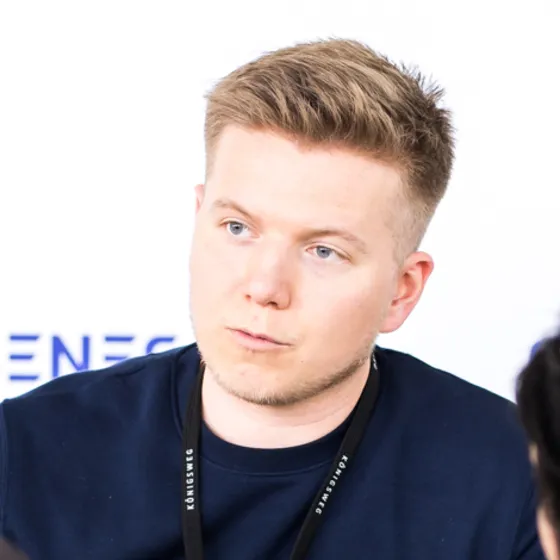
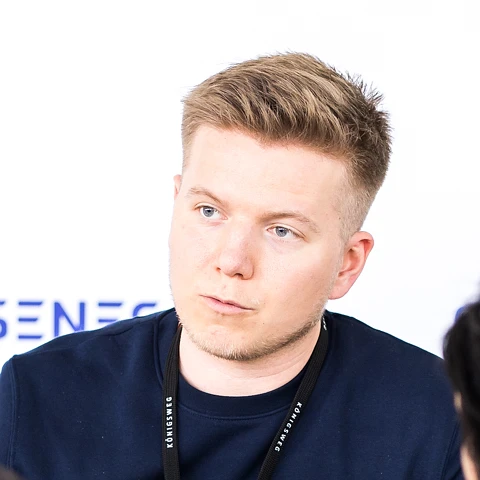
feature: adjust portrait, adjust color glow on hopepage, add more liquid glass panels, clean up get-in-touch page

diff --git a/src/pages/About.tsx b/src/pages/About.tsx
@@ -5,9 +5,6 @@ import ExternalLink from "../components/ExternalLink";
 import {
   GithubIcon,
   LinkedInIcon,
-  MailIcon,
-  PhoneIcon,
-  PinIcon,
   StackOverflowIcon,
 } from "../components/Icons";
 import { reveal } from "../components/reveal";
@@ -73,55 +70,27 @@ const Contact = styled(LiquidPanel)`
   }
 `;
 
-const ContactList = styled.ul`
-  list-style: none;
+// Plain label/value rows separated by hairlines.
+const ContactList = styled.dl`
   margin: 0 0 24px;
-  padding: 0;
-  display: grid;
-  gap: 14px;
 
-  li {
-    display: grid;
-    grid-template-columns: 42px minmax(0, 1fr);
-    align-items: center;
-    gap: 14px;
+  div {
+    padding: 12px 0;
+    border-top: 1px solid rgba(255, 255, 255, 0.08);
   }
-  small {
-    display: block;
+  div:last-child {
+    border-bottom: 1px solid rgba(255, 255, 255, 0.08);
+  }
+  dt {
     font-family: ${fonts.mono};
     font-size: 0.7rem;
     letter-spacing: 0.05em;
     text-transform: uppercase;
     color: ${colors.muted};
   }
-  span,
-  a {
+  dd {
+    margin: 2px 0 0;
     overflow-wrap: anywhere;
-  }
-`;
-
-// Round glass chip holding a contact icon.
-const IconChip = styled.span`
-  display: grid;
-  place-items: center;
-  width: 42px;
-  height: 42px;
-  border-radius: 50%;
-  color: ${colors.sun};
-  background:
-    radial-gradient(
-      circle at 30% 25%,
-      rgba(255, 255, 255, 0.18),
-      transparent 60%
-    ),
-    rgba(255, 255, 255, 0.05);
-  box-shadow:
-    inset 0 1px 0 rgba(255, 255, 255, 0.2),
-    inset 0 0 0 1px rgba(255, 255, 255, 0.08);
-
-  svg {
-    width: 20px;
-    height: 20px;
   }
 `;
 
@@ -185,33 +154,22 @@ function About() {
                 <Muted>For project inquiries, feel free to reach out.</Muted>
               </p>
               <ContactList>
-                <li>
-                  <IconChip>
-                    <MailIcon />
-                  </IconChip>
-                  <div>
-                    <small>Email</small>
+                <div>
+                  <dt>Email</dt>
+                  <dd>
                     <a href={`mailto:${profile.email}`}>{profile.email}</a>
-                  </div>
-                </li>
-                <li>
-                  <IconChip>
-                    <PhoneIcon />
-                  </IconChip>
-                  <div>
-                    <small>Phone</small>
+                  </dd>
+                </div>
+                <div>
+                  <dt>Phone</dt>
+                  <dd>
                     <a href={`tel:${tel}`}>{profile.phone}</a>
-                  </div>
-                </li>
-                <li>
-                  <IconChip>
-                    <PinIcon />
-                  </IconChip>
-                  <div>
-                    <small>Location</small>
-                    <span>{profile.location}</span>
-                  </div>
-                </li>
+                  </dd>
+                </div>
+                <div>
+                  <dt>Location</dt>
+                  <dd>{profile.location}</dd>
+                </div>
               </ContactList>
               <Actions>
                 {socials.map(({ label, href, icon }) => {

diff --git a/src/pages/home/Hero.tsx b/src/pages/home/Hero.tsx
@@ -5,7 +5,7 @@ import lavaSmall from "../../assets/photos/lava-field-800.webp";
 import portrait from "../../assets/photos/portrait.webp";
 import { reveal } from "../../components/reveal";
 import Section from "../../components/Section";
-import { Dot, Eyebrow, PillLink } from "../../components/ui";
+import { Dot, Eyebrow, LiquidPanel, PillLink } from "../../components/ui";
 import { highlights, profile } from "../../content";
 import { breakpoints, colors, fonts, glass, hoverLift } from "../../theme";
 
@@ -55,8 +55,11 @@ const PortraitFrame = styled.div`
   }
 `;
 
-const Text = styled.div`
-  max-width: 640px;
+// The introduction sits on a liquid-glass panel, which lifts it off the
+// lava photo and ties the cover to the glass used across the site.
+const Text = styled(LiquidPanel)`
+  max-width: 660px;
+  padding: clamp(24px, 3.2vw, 40px);
 
   h1 {
     font-size: clamp(2.6rem, 6vw, 4rem);
@@ -142,28 +145,25 @@ function Hero() {
       ?.scrollIntoView({ behavior: "smooth" });
 
   return (
-    <Section
-      curves={1}
-      photo={{ large: lavaLarge, small: lavaSmall }}
-      aurora="ember"
-    >
+    <Section curves={1} photo={{ large: lavaLarge, small: lavaSmall }}>
       {(visible) => (
         <>
           <Intro className={visible ? "flex-faded-in" : "flex-faded-out"}>
             <PortraitFrame style={reveal(visible, 2, "scale(0.96)")}>
               <img src={portrait} alt={`Portrait of ${profile.name}`} />
             </PortraitFrame>
-            <Text>
-              <Eyebrow style={reveal(visible, 0)}>{profile.headline}</Eyebrow>
-              <h1 style={reveal(visible, 0)}>
+            {/* The panel reveals as one piece; its contents don't fade on
+                their own (a fading ancestor would switch off the pills'
+                glass blur). */}
+            <Text style={reveal(visible, 0)}>
+              <Eyebrow>{profile.headline}</Eyebrow>
+              <h1>
                 Welcome<Dot>.</Dot>
               </h1>
-              {profile.welcome.map((paragraph, i) => (
-                <p key={paragraph.slice(0, 24)} style={reveal(visible, 1 + i)}>
-                  {paragraph}
-                </p>
+              {profile.welcome.map((paragraph) => (
+                <p key={paragraph.slice(0, 24)}>{paragraph}</p>
               ))}
-              <Actions style={reveal(visible, 3)}>
+              <Actions>
                 <PillLink as="button" $primary onClick={scrollToExperience}>
                   My experience ↓
                 </PillLink>

diff --git a/src/components/Icons.tsx b/src/components/Icons.tsx
@@ -1,7 +1,5 @@
 // Small inline SVG icons. They inherit `currentColor` so hover styles work.
 
-import type { ReactNode } from "react";
-
 function Icon({ d, title }: { d: string; title: string }) {
   return (
     <svg
@@ -60,43 +58,3 @@ export function SectionDivider({ color }: { color: string }) {
     </svg>
   );
 }
-
-// Outline icons for the contact card (24px grid, stroked in currentColor).
-function LineIcon({ children }: { children: ReactNode }) {
-  return (
-    <svg
-      xmlns="http://www.w3.org/2000/svg"
-      viewBox="0 0 24 24"
-      width="100%"
-      height="100%"
-      fill="none"
-      stroke="currentColor"
-      strokeWidth="1.6"
-      strokeLinecap="round"
-      strokeLinejoin="round"
-      aria-hidden="true"
-    >
-      {children}
-    </svg>
-  );
-}
-
-export const MailIcon = () => (
-  <LineIcon>
-    <rect x="3" y="5" width="18" height="14" rx="2.5" />
-    <path d="m4 7 8 6 8-6" />
-  </LineIcon>
-);
-
-export const PhoneIcon = () => (
-  <LineIcon>
-    <path d="M6.6 3.5h2.6l1.4 4.1-2 1.4a12 12 0 0 0 6.4 6.4l1.4-2 4.1 1.4v2.6a2 2 0 0 1-2.2 2A17 17 0 0 1 4.6 5.7a2 2 0 0 1 2-2.2Z" />
-  </LineIcon>
-);
-
-export const PinIcon = () => (
-  <LineIcon>
-    <path d="M12 21s-7-6.2-7-11.5a7 7 0 0 1 14 0C19 14.8 12 21 12 21Z" />
-    <circle cx="12" cy="9.5" r="2.5" />
-  </LineIcon>
-);

diff --git a/src/components/Aurora.tsx b/src/components/Aurora.tsx
@@ -7,7 +7,7 @@ import { aurora as a } from "../theme";
 // animated, which stays cheap on the GPU; reduced-motion users get a
 // still image (see index.css).
 
-export type AuroraVariant = "dusk" | "tide" | "ember";
+export type AuroraVariant = "dusk" | "tide";
 
 // Each variant is two layers of radial gradients that drift in opposite
 // directions, so the colours slowly shift against each other.
@@ -28,12 +28,6 @@ const VARIANTS: Record<AuroraVariant, [string, string]> = {
      radial-gradient(34% 40% at 84% 22%, ${a.lavender}73, transparent 70%)`,
     `radial-gradient(26% 30% at 62% 92%, ${a.rose}4d, transparent 70%),
      radial-gradient(22% 26% at 30% 14%, ${a.peach}40, transparent 70%)`,
-  ],
-  // A low warm glow for photo-backed sections.
-  ember: [
-    `radial-gradient(34% 40% at 14% 96%, ${a.peach}4d, transparent 70%),
-     radial-gradient(28% 34% at 40% 104%, ${a.rose}40, transparent 70%)`,
-    `radial-gradient(26% 30% at 92% 12%, ${a.lavender}2e, transparent 70%)`,
   ],
 };
 

diff --git a/.github/agents/steinnhm-website.agent.md b/.github/agents/steinnhm-website.agent.md
@@ -84,12 +84,12 @@ Stack Overflow) and a footer with contact links.
 | `src/pages/Experience.tsx`                | One template for every experience page.                                                                                                               |
 | `src/pages/About.tsx`                     | About page.                                                                                                                                           |
 | `src/components/Section.tsx`              | Full-height section: background curves, optional photo backdrop (`{ large, small }`), aurora, tint, slanted divider. Children are `(visible) => ...`. |
-| `src/components/Aurora.tsx`               | Drifting colour glows behind the glass: `dusk` (About), `tide` (Skills, Volunteering, experience pages), `ember` (hero).                              |
+| `src/components/Aurora.tsx`               | Drifting colour glows behind the glass: `dusk` (About), `tide` (Skills, Volunteering, experience pages). None on the hero.                            |
 | `src/components/reveal.ts`                | `reveal(visible, index, offset)`: per-element scroll-reveal styles.                                                                                   |
 | `src/components/ui.tsx`                   | Styled primitives: `GlassCard`, `LiquidPanel`, `SectionTitle`, `SectionLabel`, `Dot`, `Eyebrow`, `Muted`, `Tag`/`TagList`, `PillLink`, `TwoColumn`.   |
 | `src/components/ExternalLink.tsx`         | Use for every link to another site (new tab, `rel="noopener noreferrer"`).                                                                            |
 | `src/components/Layout.tsx`, `TopNav.tsx` | Page shell (nav, footer, grain overlay, scroll-to-top) and the top navigation.                                                                        |
-| `src/components/Curves.tsx`, `Icons.tsx`  | The eight background curve variants; social and contact icons and the section divider.                                                                |
+| `src/components/Curves.tsx`, `Icons.tsx`  | The eight background curve variants; social icons and the section divider.                                                                            |
 | `src/hooks/useElementOnScreen.ts`         | IntersectionObserver hook that drives all scroll animation.                                                                                           |
 | `src/assets/photos/`, `src/assets/logos/` | WebP portrait, landscape backdrops (large + 800px variants) and company logos. Raw originals are git-ignored.                                         |
 | `src/*.test.ts(x)`, `src/test/`           | `content.test.ts` (data integrity), `cv.test.ts` (site matches CV), `assets.test.ts` (image budget), `App.test.tsx` (pages and routing).              |
@@ -120,7 +120,8 @@ owner:
   dark mode: soft peach, rose, lavender and blue glows (`aurora` in
   `theme.ts`) that drift slowly behind the glass, so the panels pick up
   colour. `dusk` on About is the strongest and is the showpiece; keep the
-  others subtler.
+  others subtler. The home hero has **no** aurora (owner's call: it looked
+  out of place on the cover); the lava photo carries it.
 - **Motion:** every title, card and tile reveals itself with `reveal()` (a
   short fade and a longer staggered slide). Flex gaps "breathe" and list
   items slide in. Everything replays on scrolling back, and
@@ -129,8 +130,10 @@ owner:
   and key figures: strong blur and saturation, a soft sheen, and a specular
   rim (`::before`) that is bright at the top-left and picks up blue and gold
   at the bottom-right. `LiquidPanel` is the richest variant (deeper blur,
-  caustic sheen, 26px radius), used for reading panels (About, experience
-  pages). Rules:
+  caustic sheen, 26px radius), used for reading panels: the hero intro, the
+  About story and contact cards, and experience pages. A panel that contains
+  glass buttons reveals as one piece (its children don't fade separately).
+  Rules:
   - **Never put `opacity` or `filter` (or a transition of them) on an
     ancestor of a glass element.** Browsers skip the backdrop blur while it
     runs, which leaves sharp curves showing through the cards. Fade the
@@ -172,11 +175,16 @@ owner:
   centre long paragraphs) and buttons go full width.
 - **Images** must stay compact (`assets.test.ts`): WebP only, at most 100 KB
   each and 250 KB in total. Encode at the displayed size: logos 340px,
-  portrait 560px, backdrops 1280px plus an 800px variant for phones (pass
+  portrait 480px (native pixels from the original, never upscaled, lightly sharpened), backdrops 1280px plus an 800px variant for phones (pass
   both via `photo={{ large, small }}`). Never commit camera originals.
 - Deployment: the `CI` workflow publishes `dist/` to the `gh-pages` branch on
   every push to `master` (or a manual run), once checks and build pass.
   GitHub Pages serves it at the domain in `public/CNAME`.
+- Git: this repository has a local identity (`steinnhauser
+<hausersteinn@gmail.com>`), pushes over SSH with `~/.ssh/github_personal`
+  (`core.sshCommand`), and GPG-signs commits and tags with key
+  `F3B9E1AA2D4C4419`, which GitHub verifies. The owner's global git config
+  is for work; don't change it.
 - Versions: `v1.0.0` tags the old static site. The React site is `2.x`
   (`package.json`).
 
@@ -203,9 +211,13 @@ _Last updated: 2026-10-13_
   accent, JetBrains Mono, sand grain, responsive layout.
 - Liquid-glass and aurora pass (October 2026): new `glass` with a specular
   rim, `LiquidPanel`, drifting `Aurora` glows, a liquid nav bar, and a
-  redesigned About page (story panel, contact card with icons and social
-  buttons) as the showpiece. Phone portrait readability (left-aligned hero,
-  full-width buttons) with landscape unchanged.
+  redesigned About page (story panel, contact card with social buttons) as
+  the showpiece. Phone portrait readability (left-aligned hero, full-width
+  buttons) with landscape unchanged.
+- Cover refinements: the hero intro sits on a `LiquidPanel`, the hero
+  aurora was removed, the portrait was re-cut at native resolution (sharp
+  instead of upscaled), and the contact card lost its icon chips in favour
+  of plain hairline rows.
 - Build size: images re-encoded to WebP at their displayed size (558 KB →
   184 KB, with 800px backdrops on phones), an unused font weight dropped,
   and an image budget test added. `dist/` is about 600 KB in total.
